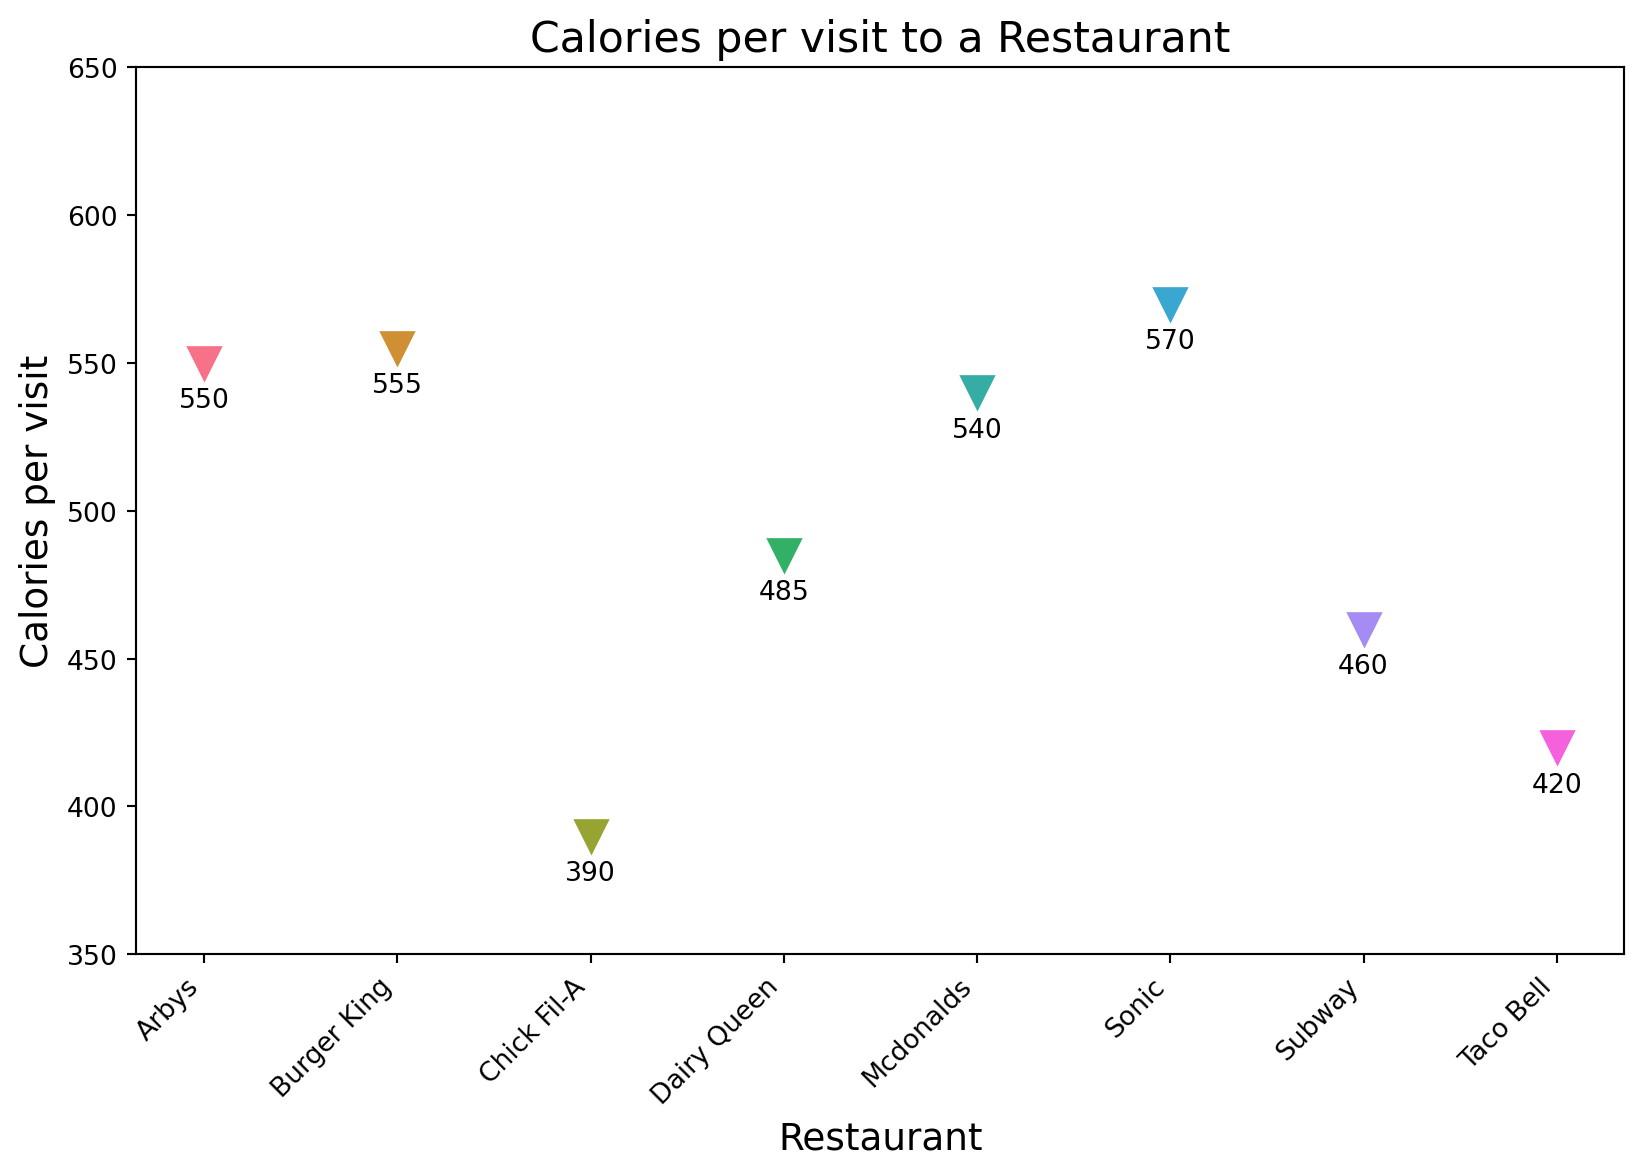
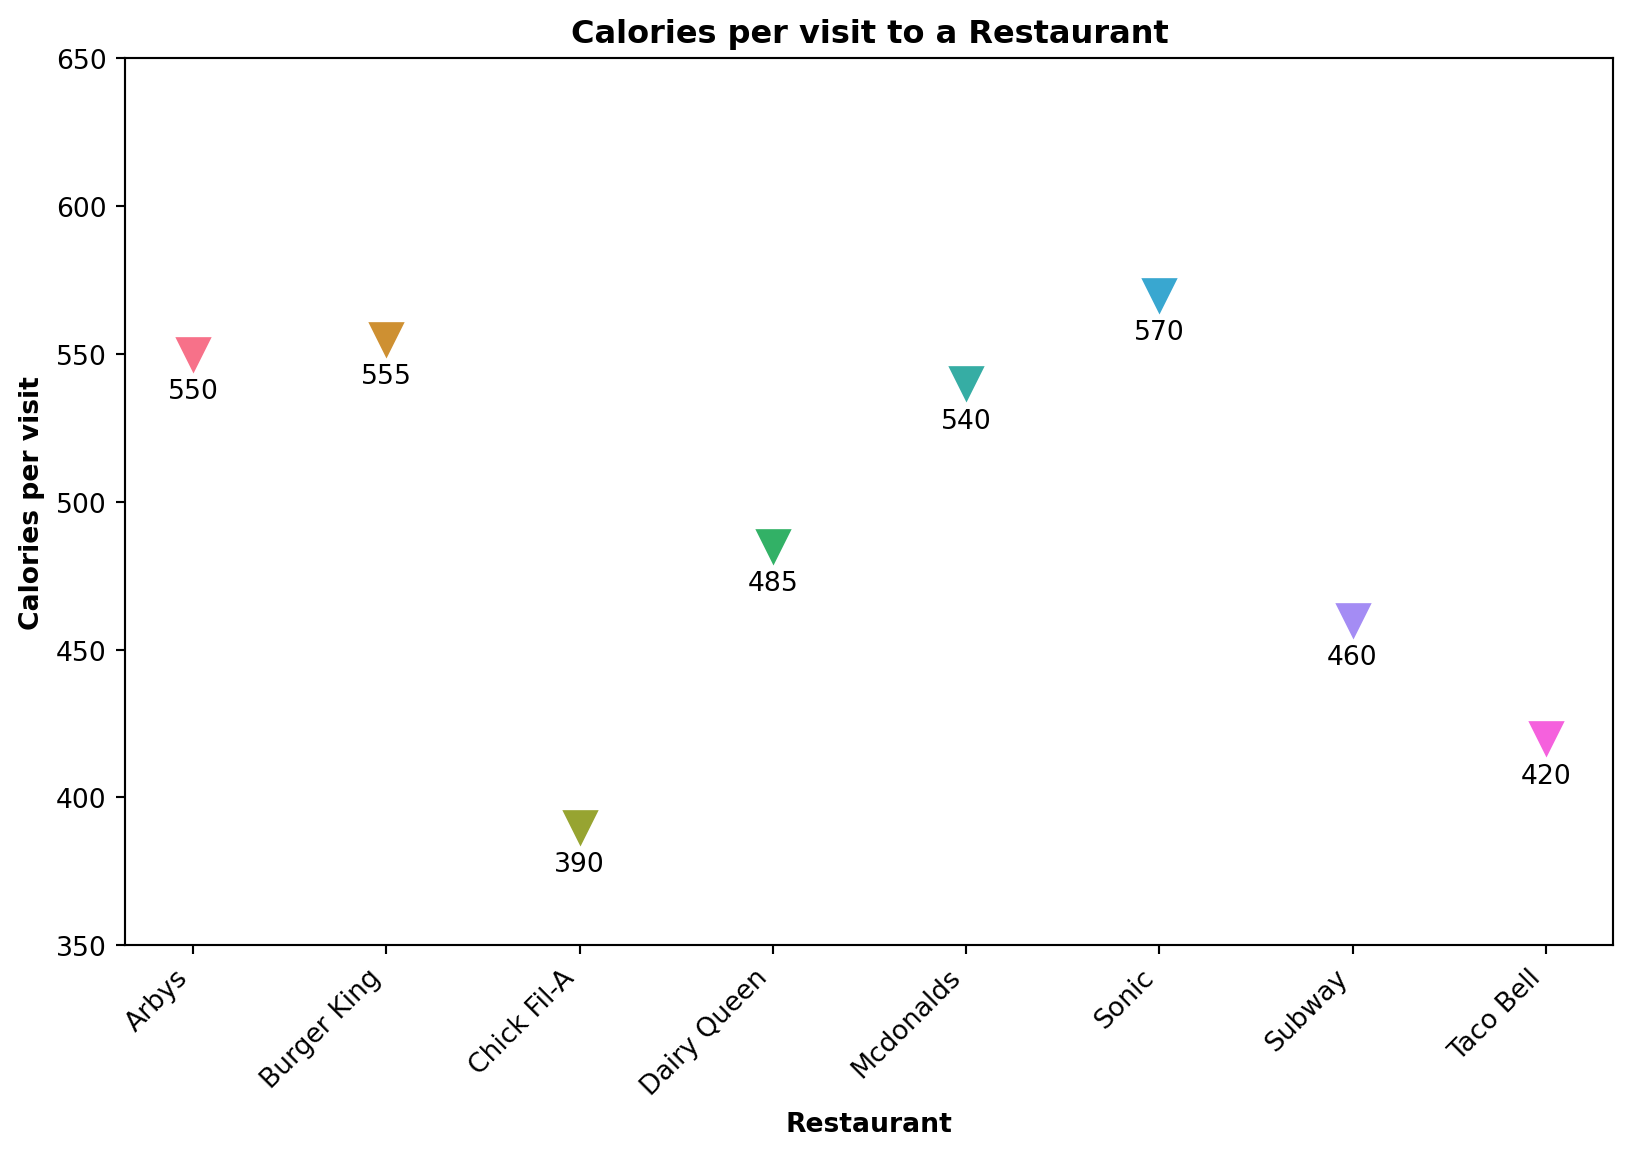
Built site for gh-pages

diff --git a/index.html b/index.html
@@ -229,7 +229,7 @@ pre > code.sourceCode > span > a:first-child::before { text-decoration: underlin
 </section>
 <section id="part-1" class="level4">
 <h4 class="anchored" data-anchor-id="part-1">Part 1</h4>
-<div id="e20dd25c" class="cell" data-message="false" data-execution_count="1">
+<div id="709a783e" class="cell" data-message="false" data-execution_count="1">
 <details class="code-fold">
 <summary>Code</summary>
 <div class="sourceCode cell-code" id="cb1"><pre class="sourceCode python code-with-copy"><code class="sourceCode python"><span id="cb1-1"><a href="#cb1-1" aria-hidden="true" tabindex="-1"></a><span class="im">import</span> numpy <span class="im">as</span> np</span>
@@ -401,7 +401,7 @@ pre > code.sourceCode > span > a:first-child::before { text-decoration: underlin
 </div>
 </div>
 <p>Part 2</p>
-<div id="e31c3379" class="cell" data-message="false" data-execution_count="2">
+<div id="ed1b7363" class="cell" data-message="false" data-execution_count="2">
 <details class="code-fold">
 <summary>Code</summary>
 <div class="sourceCode cell-code" id="cb3"><pre class="sourceCode python code-with-copy"><code class="sourceCode python"><span id="cb3-1"><a href="#cb3-1" aria-hidden="true" tabindex="-1"></a><span class="im">import</span> pandas <span class="im">as</span> pd</span>
@@ -426,9 +426,9 @@ pre > code.sourceCode > span > a:first-child::before { text-decoration: underlin
 <span id="cb3-20"><a href="#cb3-20" aria-hidden="true" tabindex="-1"></a>    plt.text(restaurant, median_calories.loc[i, <span class="st">'calories'</span>] <span class="op">-</span> <span class="dv">15</span>, <span class="ss">f"</span><span class="sc">{</span>median_calories<span class="sc">.</span>loc[i, <span class="st">'calories'</span>]<span class="sc">:.0f}</span><span class="ss">"</span>, ha<span class="op">=</span><span class="st">'center'</span>, fontsize<span class="op">=</span><span class="dv">10</span>, color<span class="op">=</span><span class="st">'black'</span>)</span>
 <span id="cb3-21"><a href="#cb3-21" aria-hidden="true" tabindex="-1"></a></span>
 <span id="cb3-22"><a href="#cb3-22" aria-hidden="true" tabindex="-1"></a><span class="co"># Add title and labels</span></span>
-<span id="cb3-23"><a href="#cb3-23" aria-hidden="true" tabindex="-1"></a>plt.title(<span class="st">'Calories per visit to a Restaurant'</span>, fontsize<span class="op">=</span><span class="dv">16</span>)</span>
-<span id="cb3-24"><a href="#cb3-24" aria-hidden="true" tabindex="-1"></a>plt.xlabel(<span class="st">'Restaurant'</span>, fontsize<span class="op">=</span><span class="dv">14</span>)</span>
-<span id="cb3-25"><a href="#cb3-25" aria-hidden="true" tabindex="-1"></a>plt.ylabel(<span class="st">'Calories per visit'</span>, fontsize<span class="op">=</span><span class="dv">14</span>)</span>
+<span id="cb3-23"><a href="#cb3-23" aria-hidden="true" tabindex="-1"></a>plt.title(<span class="st">'Calories per visit to a Restaurant'</span>,fontweight<span class="op">=</span><span class="st">'bold'</span>)</span>
+<span id="cb3-24"><a href="#cb3-24" aria-hidden="true" tabindex="-1"></a>plt.xlabel(<span class="st">'Restaurant'</span>, fontweight<span class="op">=</span><span class="st">'bold'</span>)</span>
+<span id="cb3-25"><a href="#cb3-25" aria-hidden="true" tabindex="-1"></a>plt.ylabel(<span class="st">'Calories per visit'</span>, fontweight<span class="op">=</span><span class="st">'bold'</span>)</span>
 <span id="cb3-26"><a href="#cb3-26" aria-hidden="true" tabindex="-1"></a></span>
 <span id="cb3-27"><a href="#cb3-27" aria-hidden="true" tabindex="-1"></a><span class="co"># Rotate x-axis labels for better readability (optional)</span></span>
 <span id="cb3-28"><a href="#cb3-28" aria-hidden="true" tabindex="-1"></a>plt.xticks(rotation<span class="op">=</span><span class="dv">45</span>, ha<span class="op">=</span><span class="st">'right'</span>)</span>
@@ -445,7 +445,7 @@ pre > code.sourceCode > span > a:first-child::before { text-decoration: underlin
 <div class="cell-output cell-output-display">
 <div>
 <figure class="figure">
-<p><img src="index_files/figure-html/cell-3-output-1.png" width="822" height="588" class="figure-img"></p>
+<p><img src="index_files/figure-html/cell-3-output-1.png" width="816" height="578" class="figure-img"></p>
 </figure>
 </div>
 </div>
@@ -511,12 +511,12 @@ pre > code.sourceCode > span > a:first-child::before { text-decoration: underlin
 <span id="cb4-34"><a href="#cb4-34" aria-hidden="true" tabindex="-1"></a>    plt.text(median_protein_fat_ratio[<span class="st">'Protein_fat_ratio'</span>][i], i, <span class="ss">f"</span><span class="sc">{</span>median_protein_fat_ratio[<span class="st">'Protein_fat_ratio'</span>][i]<span class="sc">:.2f}</span><span class="ss">"</span>, fontsize<span class="op">=</span><span class="dv">10</span>, va<span class="op">=</span><span class="st">'center'</span>, ha<span class="op">=</span><span class="st">'right'</span>, color<span class="op">=</span><span class="st">'black'</span>)</span>
 <span id="cb4-35"><a href="#cb4-35" aria-hidden="true" tabindex="-1"></a></span>
 <span id="cb4-36"><a href="#cb4-36" aria-hidden="true" tabindex="-1"></a><span class="co"># Add title and labels</span></span>
-<span id="cb4-37"><a href="#cb4-37" aria-hidden="true" tabindex="-1"></a>plt.title(<span class="st">'Protein-Fat Ratio by Restaurant'</span>, fontsize<span class="op">=</span><span class="dv">16</span>)</span>
-<span id="cb4-38"><a href="#cb4-38" aria-hidden="true" tabindex="-1"></a>plt.xlabel(<span class="st">'Protein-Fat Ratio'</span>, fontsize<span class="op">=</span><span class="dv">14</span>)</span>
-<span id="cb4-39"><a href="#cb4-39" aria-hidden="true" tabindex="-1"></a>plt.ylabel(<span class="st">'Restaurant'</span>, fontsize<span class="op">=</span><span class="dv">14</span>)</span>
+<span id="cb4-37"><a href="#cb4-37" aria-hidden="true" tabindex="-1"></a>plt.title(<span class="st">'Protein-Fat Ratio by Restaurant'</span>, fontweight<span class="op">=</span><span class="st">'bold'</span>)</span>
+<span id="cb4-38"><a href="#cb4-38" aria-hidden="true" tabindex="-1"></a>plt.xlabel(<span class="st">'Protein-Fat Ratio'</span>, fontweight<span class="op">=</span><span class="st">'bold'</span>)</span>
+<span id="cb4-39"><a href="#cb4-39" aria-hidden="true" tabindex="-1"></a>plt.ylabel(<span class="st">'Restaurant'</span>, fontweight<span class="op">=</span><span class="st">'bold'</span>)</span>
 <span id="cb4-40"><a href="#cb4-40" aria-hidden="true" tabindex="-1"></a></span>
 <span id="cb4-41"><a href="#cb4-41" aria-hidden="true" tabindex="-1"></a><span class="co"># Customize y-axis labels</span></span>
-<span id="cb4-42"><a href="#cb4-42" aria-hidden="true" tabindex="-1"></a>plt.yticks(fontsize<span class="op">=</span><span class="dv">12</span>)</span>
+<span id="cb4-42"><a href="#cb4-42" aria-hidden="true" tabindex="-1"></a><span class="co">#plt.yticks(fontsize=12)</span></span>
 <span id="cb4-43"><a href="#cb4-43" aria-hidden="true" tabindex="-1"></a></span>
 <span id="cb4-44"><a href="#cb4-44" aria-hidden="true" tabindex="-1"></a><span class="co"># Show the plot</span></span>
 <span id="cb4-45"><a href="#cb4-45" aria-hidden="true" tabindex="-1"></a>plt.grid(<span class="va">True</span>, linestyle<span class="op">=</span><span class="st">'--'</span>, alpha<span class="op">=</span><span class="fl">0.7</span>)</span>
@@ -526,7 +526,7 @@ pre > code.sourceCode > span > a:first-child::before { text-decoration: underlin
 <div class="cell-output cell-output-display">
 <div>
 <figure class="figure">
-<p><img src="index_files/figure-html/figure3-output-1.png" id="figure3" width="1141" height="758" class="figure-img"></p>
+<p><img src="index_files/figure-html/figure3-output-1.png" id="figure3" width="1142" height="758" class="figure-img"></p>
 </figure>
 </div>
 </div>
@@ -546,24 +546,24 @@ pre > code.sourceCode > span > a:first-child::before { text-decoration: underlin
 <span id="cb5-9"><a href="#cb5-9" aria-hidden="true" tabindex="-1"></a></span>
 <span id="cb5-10"><a href="#cb5-10" aria-hidden="true" tabindex="-1"></a><span class="co"># Plot points for protein fat ratios for each restaurant</span></span>
 <span id="cb5-11"><a href="#cb5-11" aria-hidden="true" tabindex="-1"></a><span class="cf">for</span> i, restaurant <span class="kw">in</span> <span class="bu">enumerate</span>(restaurants):</span>
-<span id="cb5-12"><a href="#cb5-12" aria-hidden="true" tabindex="-1"></a>    plt.scatter([protein_fat_ratios[i]], [restaurant], label<span class="op">=</span>restaurant, marker<span class="op">=</span><span class="st">'o'</span>)</span>
+<span id="cb5-12"><a href="#cb5-12" aria-hidden="true" tabindex="-1"></a>    plt.scatter([protein_fat_ratios[i]], [restaurant], marker<span class="op">=</span><span class="st">'o'</span>)</span>
 <span id="cb5-13"><a href="#cb5-13" aria-hidden="true" tabindex="-1"></a></span>
 <span id="cb5-14"><a href="#cb5-14" aria-hidden="true" tabindex="-1"></a><span class="co"># Shade the regions</span></span>
 <span id="cb5-15"><a href="#cb5-15" aria-hidden="true" tabindex="-1"></a>plt.axvspan(<span class="fl">0.25</span>, <span class="fl">0.40</span>, color<span class="op">=</span><span class="st">'lightcoral'</span>, alpha<span class="op">=</span><span class="fl">0.5</span>, label<span class="op">=</span><span class="st">'Needs Improvement'</span>)</span>
 <span id="cb5-16"><a href="#cb5-16" aria-hidden="true" tabindex="-1"></a>plt.axvspan(<span class="fl">0.40</span>, <span class="fl">0.50</span>, color<span class="op">=</span><span class="st">'lightgreen'</span>, alpha<span class="op">=</span><span class="fl">0.5</span>, label<span class="op">=</span><span class="st">'Healthy'</span>)</span>
 <span id="cb5-17"><a href="#cb5-17" aria-hidden="true" tabindex="-1"></a></span>
-<span id="cb5-18"><a href="#cb5-18" aria-hidden="true" tabindex="-1"></a><span class="co"># Labels and legend</span></span>
-<span id="cb5-19"><a href="#cb5-19" aria-hidden="true" tabindex="-1"></a>plt.xlabel(<span class="st">'Protein Fat Ratio'</span>)</span>
-<span id="cb5-20"><a href="#cb5-20" aria-hidden="true" tabindex="-1"></a>plt.ylabel(<span class="st">'Restaurants'</span>)</span>
-<span id="cb5-21"><a href="#cb5-21" aria-hidden="true" tabindex="-1"></a>plt.title(<span class="st">'Protein Fat Ratio of Restaurants'</span>)</span>
-<span id="cb5-22"><a href="#cb5-22" aria-hidden="true" tabindex="-1"></a></span>
-<span id="cb5-23"><a href="#cb5-23" aria-hidden="true" tabindex="-1"></a><span class="co"># Customize y-axis labels</span></span>
-<span id="cb5-24"><a href="#cb5-24" aria-hidden="true" tabindex="-1"></a>plt.yticks(restaurants)</span>
-<span id="cb5-25"><a href="#cb5-25" aria-hidden="true" tabindex="-1"></a></span>
-<span id="cb5-26"><a href="#cb5-26" aria-hidden="true" tabindex="-1"></a><span class="co"># Show plot</span></span>
-<span id="cb5-27"><a href="#cb5-27" aria-hidden="true" tabindex="-1"></a>plt.grid(<span class="va">True</span>, linestyle<span class="op">=</span><span class="st">'--'</span>, alpha<span class="op">=</span><span class="fl">0.7</span>)</span>
-<span id="cb5-28"><a href="#cb5-28" aria-hidden="true" tabindex="-1"></a>plt.tight_layout()</span>
-<span id="cb5-29"><a href="#cb5-29" aria-hidden="true" tabindex="-1"></a>plt.legend()</span>
+<span id="cb5-18"><a href="#cb5-18" aria-hidden="true" tabindex="-1"></a><span class="co"># Labels and legend for shaded regions</span></span>
+<span id="cb5-19"><a href="#cb5-19" aria-hidden="true" tabindex="-1"></a>plt.xlabel(<span class="st">'Protein Fat Ratio'</span>, fontweight<span class="op">=</span><span class="st">'bold'</span>)</span>
+<span id="cb5-20"><a href="#cb5-20" aria-hidden="true" tabindex="-1"></a>plt.ylabel(<span class="st">'Restaurants'</span>, fontweight<span class="op">=</span><span class="st">'bold'</span>)</span>
+<span id="cb5-21"><a href="#cb5-21" aria-hidden="true" tabindex="-1"></a>plt.title(<span class="st">'Protein Fat Ratio of Restaurants'</span>, fontweight<span class="op">=</span><span class="st">'bold'</span>)</span>
+<span id="cb5-22"><a href="#cb5-22" aria-hidden="true" tabindex="-1"></a>plt.legend()</span>
+<span id="cb5-23"><a href="#cb5-23" aria-hidden="true" tabindex="-1"></a></span>
+<span id="cb5-24"><a href="#cb5-24" aria-hidden="true" tabindex="-1"></a><span class="co"># Customize y-axis labels</span></span>
+<span id="cb5-25"><a href="#cb5-25" aria-hidden="true" tabindex="-1"></a>plt.yticks(restaurants)</span>
+<span id="cb5-26"><a href="#cb5-26" aria-hidden="true" tabindex="-1"></a></span>
+<span id="cb5-27"><a href="#cb5-27" aria-hidden="true" tabindex="-1"></a><span class="co"># Show plot</span></span>
+<span id="cb5-28"><a href="#cb5-28" aria-hidden="true" tabindex="-1"></a>plt.grid(<span class="va">True</span>, linestyle<span class="op">=</span><span class="st">'--'</span>, alpha<span class="op">=</span><span class="fl">0.7</span>)</span>
+<span id="cb5-29"><a href="#cb5-29" aria-hidden="true" tabindex="-1"></a>plt.tight_layout()</span>
 <span id="cb5-30"><a href="#cb5-30" aria-hidden="true" tabindex="-1"></a>plt.show()</span></code><button title="Copy to Clipboard" class="code-copy-button"><i class="bi"></i></button></pre></div>
 </details>
 <div class="cell-output cell-output-display">
@@ -743,7 +743,10 @@ pre > code.sourceCode > span > a:first-child::before { text-decoration: underlin
 </div>
 </div>
 </div>
-<p>###Discussion The half-violin plot depicts how the protein-fat ratio varies between fast-food outlets. The numbers near quartile lines inside the violin plots show each restaurant’s median protein-fat ratio. The quartile line range provides information on the nutritional markup of their menu items. Some restaurants have narrower distributions, indicating less protein-fat ratios in those quartile distributions, while others have larger distributions, implying more protein-fat ratio in the quartile ranges. The line plot with a circle marker depicts the protein-fat ratios of several fast-food establishments. Each point in the diagram represents a restaurant, with the placement determined by the protein-fat ratio. The shaded regions determine the threshold for classifying restaurants as either “Needs Improvement” or “Healthy” based on their protein-fat ratios. Restaurants classified in the “Needs Improvement” category suggest that their menu options are characterized by a higher proportion of fat relative to protein. Conversely, eateries placed in the “Healthy” category indicate a more favorable protein-to-fat ratio, implying a healthier balance in their menu offerings. For the summary statistics table the food items were categorized into 8 main categories, burgers, chicken nuggets/ tenders, chicken sandwiches, hotdogs, other, salads, subway items, and tacos and burritos, these categorizations were done using a dictionary. A dictionary was created for each food category containing certain words distinct to each food category. Based on the words in the dictionary for each food category, if a word in the food item can be found in the food category dictionary, the food item will be categorized as such.</p>
+</section>
+<section id="discussion-1" class="level4">
+<h4 class="anchored" data-anchor-id="discussion-1">Discussion</h4>
+<p>The half-violin plot depicts how the protein-fat ratio varies between fast-food outlets. The numbers near quartile lines inside the violin plots show each restaurant’s median protein-fat ratio. The quartile line range provides information on the nutritional markup of their menu items. Some restaurants have narrower distributions, indicating less protein-fat ratios in those quartile distributions, while others have larger distributions, implying more protein-fat ratio in the quartile ranges. The line plot with a circle marker depicts the protein-fat ratios of several fast-food establishments. Each point in the diagram represents a restaurant, with the placement determined by the protein-fat ratio. The shaded regions determine the threshold for classifying restaurants as either “Needs Improvement” or “Healthy” based on their protein-fat ratios. Restaurants classified in the “Needs Improvement” category suggest that their menu options are characterized by a higher proportion of fat relative to protein. Conversely, eateries placed in the “Healthy” category indicate a more favorable protein-to-fat ratio, implying a healthier balance in their menu offerings. For the summary statistics table the food items were categorized into 8 main categories, burgers, chicken nuggets/ tenders, chicken sandwiches, hotdogs, other, salads, subway items, and tacos and burritos, these categorizations were done using a dictionary. A dictionary was created for each food category containing certain words distinct to each food category. Based on the words in the dictionary for each food category, if a word in the food item can be found in the food category dictionary, the food item will be categorized as such.</p>
 
 
 </section>

diff --git a/about.html b/about.html
@@ -152,7 +152,7 @@ ul.task-list li input[type="checkbox"] {
 
 <p>This project was developed by <strong>[Team Name]</strong> For <a href="https://datamineaz.org/">INFO 523 - Data Mining and Discovery</a> at the University of Arizona, taught by Dr.&nbsp;Greg Chism. The team is comprised of the following team members.</p>
 <ul>
-<li><p>Team member 1: One sentence description of Team member 1 (e.g., year, major, etc.).</p></li>
+<li><p>Valerie Naa Dei Okine (First year, Master of Data Science)</p></li>
 <li><p>Team member 2: One sentence description of Team member 2 (e.g., year, major, etc.).</p></li>
 <li><p>Team member 3: One sentence description of Team member 3 (e.g., year, major, etc.).</p></li>
 <li><p>Team member 4: One sentence description of Team member 4 (e.g., year, major, etc.).</p></li>
